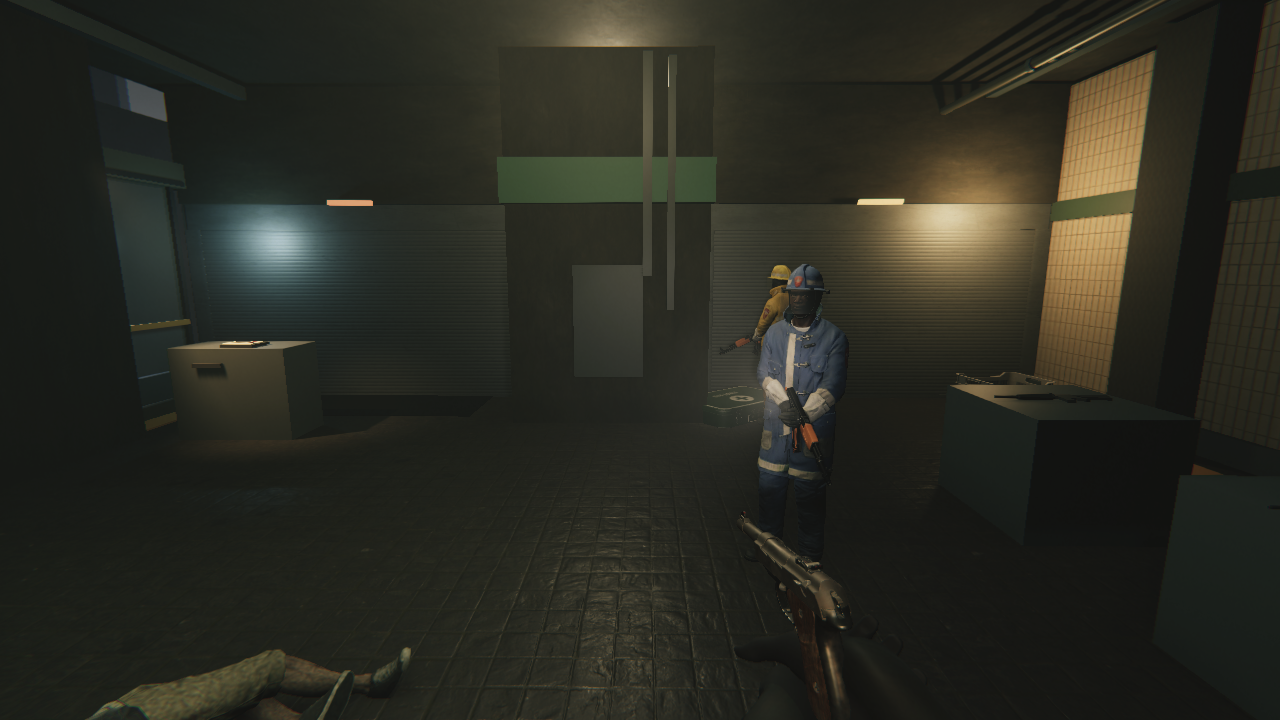
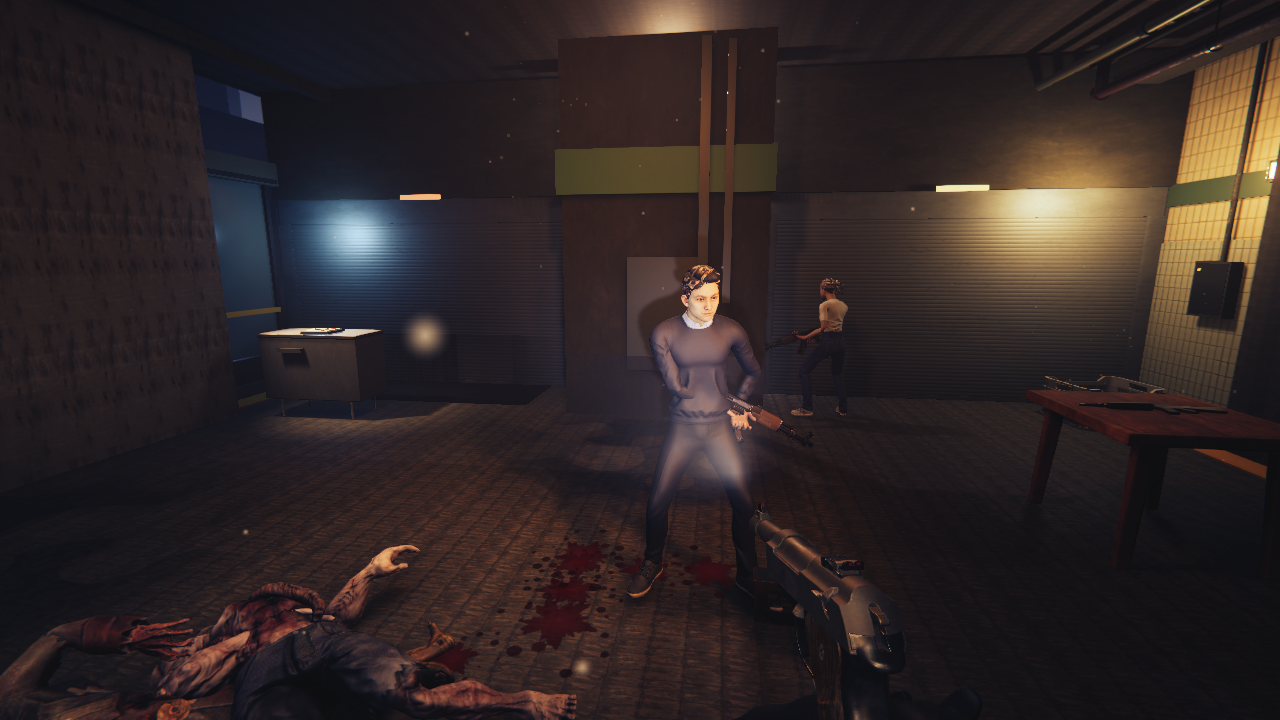
docs: refresh Residual Signal gameplay media

diff --git a/dead-frequency/Assets/Editor/StationPlayCheck.cs b/dead-frequency/Assets/Editor/StationPlayCheck.cs
@@ -44,6 +44,7 @@ namespace ResidualSignal
         static int preparationThreats;
         static Vector3 approachStart;
         static string demoFrameFolder;
+        static bool freightDemo;
         static int demoFrame;
         static float nextDemoFrame;
         static bool demoBossWalked;
@@ -115,6 +116,8 @@ namespace ResidualSignal
                 Application.runInBackground = true;
                 startedAt = EditorApplication.timeSinceStartup;
                 demoFrameFolder = SessionState.GetString(RunningKey + ".demo", "");
+                freightDemo = !string.IsNullOrEmpty(demoFrameFolder) &&
+                    Array.IndexOf(Environment.GetCommandLineArgs(), "-freightDemo") >= 0;
                 // Scripted checks need a quiet station: no director until a mode turns it on.
                 var quiet = UnityEngine.Object.FindFirstObjectByType<StationTrial>();
                 if (quiet != null && Array.IndexOf(Environment.GetCommandLineArgs(), "-botCheck") < 0)
@@ -786,6 +789,11 @@ namespace ResidualSignal
                         step = 86;
                         break;
                     }
+                    if (freightDemo)
+                    {
+                        step = 3;
+                        break;
+                    }
                     // Stage a deterministic hit/reload target independently of the live director.
                     target = trial.SpawnInfected(0.0f, controller.transform.position.z + 7f, false);
                     stepTime = Time.time;
@@ -826,6 +834,11 @@ namespace ResidualSignal
                     step = 83;
                     break;
                 case 83:
+                    if (liveDefenseMode && !trial.PreparingDefense && !string.IsNullOrEmpty(demoFrameFolder))
+                    {
+                        AimAtPoint(controller.transform.position + new Vector3(0f, 1.25f, 8f));
+                        RecordDemoFrame();
+                    }
                     int arrivals = trial.Threats.Count - preparationThreats;
                     bool specialistArrived = false;
                     if (liveDefenseMode)
@@ -836,7 +849,17 @@ namespace ResidualSignal
                         if (liveDefenseMode)
                             AimAtPoint(trial.Threats[trial.Threats.Count - 1].transform.position + Vector3.up * 1.25f);
                         Capture(Camera.main, Shot(".defense.png"));
-                        Finish(true, $"PLATFORM03 CAMPAIGN PACING CHECK PASS (quiet preparation, then {arrivals} covered reinforcements, specialist {specialistArrived})");
+                        string result = $"PLATFORM03 CAMPAIGN PACING CHECK PASS (quiet preparation, then {arrivals} covered reinforcements, specialist {specialistArrived})";
+                        if (!liveDefenseMode || string.IsNullOrEmpty(demoFrameFolder))
+                        {
+                            Finish(true, result);
+                            return;
+                        }
+                        Debug.Log(result);
+                        trial.Equip(4);
+                        trial.GiveAmmo();
+                        stepTime = Time.time;
+                        step = 134;
                         return;
                     }
                     if (Time.time > stepTime + 13f)
@@ -903,12 +926,15 @@ namespace ResidualSignal
                     step++;
                     break;
                 case 3 when Time.time >= stepTime + 1.4f:
-                    AimAt(target);
-                    Capture(Camera.main, Shot(".corpse.png"));
-                    if (trial.Rounds != startingRounds)
+                    if (!freightDemo)
                     {
-                        Finish(false, "Reload did not refill the magazine.");
-                        return;
+                        AimAt(target);
+                        Capture(Camera.main, Shot(".corpse.png"));
+                        if (trial.Rounds != startingRounds)
+                        {
+                            Finish(false, "Reload did not refill the magazine.");
+                            return;
+                        }
                     }
                     controller.Move(Vector3.right * 2.8f);
                     controller.Move(Vector3.forward * Mathf.Max(0f, 27f - controller.transform.position.z));
@@ -1246,6 +1272,7 @@ namespace ResidualSignal
                     float lane = -2.45f + Mathf.Sin((Time.time - stepTime) * 1.45f) * 0.95f;
                     MoveToward(controller, new Vector3(lane, 0, 57.25f));
                     AimAtPoint(target.transform.position + Vector3.up * 1.6f);
+                    RecordDemoFrame();
                     if (trial.TryFire())
                         yardShots++;
                     else if (trial.Rounds == 0)
@@ -1350,6 +1377,11 @@ namespace ResidualSignal
                 case 132:
                     ClearAnnexTestThreats(trial, controller);
                     MoveToward(controller, new Vector3(-1.6f, 0f, 103.15f));
+                    if (freightDemo)
+                    {
+                        AimAtPoint(trial.Witness.transform.position + Vector3.up * 1.35f);
+                        RecordDemoFrame();
+                    }
                     if (controller.transform.position.x >= -1.7f)
                         step = 133;
                     break;
@@ -1357,11 +1389,50 @@ namespace ResidualSignal
                     ClearAnnexTestThreats(trial, controller);
                     float witnessZ = trial.Witness.transform.position.z;
                     MoveToward(controller, new Vector3(-1.6f, 0f, Mathf.Min(121.1f, witnessZ + 3.8f)));
+                    if (freightDemo)
+                    {
+                        AimAtPoint(trial.Witness.transform.position + Vector3.up * 1.35f);
+                        RecordDemoFrame();
+                    }
                     if (!trial.Complete)
                         break;
                     AimAtPoint(new Vector3(-1.6f, 2.2f, 122.6f));
                     Capture(Camera.main, Shot(".freight-exit.png"));
                     Finish(true, "PLATFORM03 MISSION PLAY CHECK PASS (annex, freight power, exit release and escort escape)");
+                    break;
+                case 134:
+                    if (Time.time >= stepTime + 5f)
+                    {
+                        Finish(true, "PLATFORM03 DEFENSE GAMEPLAY CAPTURE READY");
+                        return;
+                    }
+                    StationInfected nearest = null;
+                    float nearestDistance = float.PositiveInfinity;
+                    foreach (var infected in trial.Threats)
+                    {
+                        if (infected == null || infected.Dead)
+                            continue;
+                        float distance = (infected.transform.position - controller.transform.position).sqrMagnitude;
+                        if (distance >= nearestDistance)
+                            continue;
+                        if (Physics.Linecast(Camera.main.transform.position, infected.transform.position + Vector3.up * 1.25f,
+                                out var obstruction, Physics.DefaultRaycastLayers, QueryTriggerInteraction.Ignore) &&
+                            obstruction.collider.GetComponentInParent<StationInfected>() != infected)
+                            continue;
+                        nearest = infected;
+                        nearestDistance = distance;
+                    }
+                    if (nearest != null)
+                    {
+                        AimAt(nearest);
+                        if (nearestDistance < 9f)
+                            trial.TryShove();
+                        if (!trial.TryFire() && trial.Rounds == 0)
+                            trial.TryReload();
+                    }
+                    if (trial.Health < 75 && !trial.Downed)
+                        trial.Heal(60);
+                    RecordDemoFrame();
                     break;
             }
         }

diff --git a/dead-frequency/README.md b/dead-frequency/README.md
@@ -2,7 +2,7 @@
 
 폐역에 남은 구조 요청에 응답하는 1인칭 협동 FPS. **1차 개발판**에는 해림역 첫 임무 〈열한 번째 이름〉이 들어 있습니다. 혼자 출격하면 AI 동료 셋과 플레이할 수 있고, 온라인은 최대 4인 코드 참가 방식입니다.
 
-![해림역 광장 진입과 AI 분대 교전](docs/media/approach.gif)
+![밤의 해림역 광장에서 대합실로 진입](docs/media/approach.gif)
 
 ## 플레이
 
@@ -29,7 +29,7 @@ open "Builds/Residual Signal Playtest.app"
 | 조작 | 동작 |
 |---|---|
 | WASD / 마우스 | 이동 / 시점 |
-| 왼쪽 클릭 / 오른쪽 클릭(길게) | 사격 / 정조준 |
+| 왼쪽 클릭 / 오른쪽 클릭 또는 왼쪽 Alt(길게) | 사격 / 정조준 |
 | V 또는 휠 클릭 | 개머리판 밀치기 |
 | E / E 길게 | 상호작용 / 쓰러진 동료 일으키기 |
 | Q | 조준한 감염체에 분대 집중 사격 지시 (혼자 출격) |
@@ -41,14 +41,29 @@ open "Builds/Residual Signal Playtest.app"
 
 광장 대피 통제소를 지나 비상전화에 응답합니다. 명부를 확인한 뒤 침수 통로 또는 직원 통로를 열고, 승강장 전력을 복구해 셔터가 열릴 때까지 버팁니다. 서이경을 구조한 뒤 정비동 유압 펌프를 가동하고, 적재장 거대체를 제압한 뒤 화물 연결로에서 배전함과 서비스문 잠금을 조작하고 서이경과 탈출합니다. 길은 바닥 유도선과 조명, 공간 배치로 안내합니다.
 
-- **분대** — AI 동료 셋, 보급 회수, 엄폐 뒤 접근, 집중 사격, 치료와 구조.
-- **전투** — 권총, 산탄총, 자동소총, 저격소총, 반자동 카빈. 부위별 피격 반응, 밀치기와 사망 물리 모션.
-- **감염체** — 일반 감염체 외형 6종과 특수 감염체 5종. 덮치개, 끌개, 부풀이, 울음꾼, 적재장 거대체가 다른 방식으로 공격합니다. 울음꾼의 호출은 공격으로 끊을 수 있고, 거대체는 돌진 전에 예고 동작을 합니다.
-- **습격 연출** — 증원은 플레이어에게 가려져 있고 분대까지 이동할 수 있는 지점에서 나옵니다. 특수기는 공통 대기 시간을 적용합니다.
+- **분대** — Mixamo 캐릭터를 적용한 AI 동료 셋이 보급품을 챙기고, 엄폐하며 접근하고, 지정한 표적에 집중 사격합니다. 쓰러진 아군을 일으키고 붙잡힌 아군을 우선 구조합니다.
+- **전투** — 권총, 산탄총, 자동소총, 저격소총, 반자동 카빈. 정조준, 시점 반동, 총구 섬광, 탄흔, 부위별 피격 반응과 사망 물리 모션을 적용했습니다.
+- **감염체** — 일반 감염체와 덮치개·끌개·부풀이·울음꾼, 적재장 거대체의 모델과 모션을 교체했습니다. 울음꾼의 호출은 공격으로 끊을 수 있습니다. 거대체는 콘크리트를 던지고, 돌진하거나 가까운 대상을 휩씁니다.
+- **습격 연출** — 승강장은 준비 시간이 끝나면 시야 밖 통로에서 감염체 무리와 특수 감염체가 진입합니다. 이동 구간에서는 분대가 받는 압박에 따라 디렉터가 추가 무리와 휴식 간격을 조절합니다.
+- **해림역** — 광장의 야간 조명, 대합실과 승강장의 배관·간판·등기구, 역 타일과 젖은 바닥, 정비동의 가구와 소품을 갱신했습니다.
 
-![적재장 거대체 접근과 피격](docs/media/loading-bay-boss.gif)
+## 플레이 장면
 
-위 GIF는 Unity Play Mode의 자동 플레이 장면을 촬영했습니다. [정비동 화면](docs/loading-bay-workshop.png) · [동료 작업복](docs/loading-bay-team.png)
+### 승강장 방어
+
+![시야 밖 통로에서 진입하는 감염체 무리와 승강장 교전](docs/media/platform-defense.gif)
+
+### 적재장 거대체
+
+![적재장 거대체와 분대의 교전](docs/media/loading-bay-boss.gif)
+
+### 화물 연결로 탈출
+
+![화물 연결로 서비스문을 열고 서이경을 호송](docs/media/freight-escape.gif)
+
+GIF는 Unity Play Mode에서 자동 조작으로 촬영했습니다.
+
+스크린샷은 [AI 동료](docs/loading-bay-team.png), [해림역 내부](production/qa/evidence/architecture-detail-2026-11-24.png), [승강장](docs/media/platform-defense.png), [정비동](docs/loading-bay-workshop.png), [거대체](docs/loading-bay-boss.png), [화물 연결로](docs/media/freight-escape.png)에서 볼 수 있습니다.
 
 ## 검증과 남은 작업
 

diff --git a/dead-frequency/production/session-state/active.md b/dead-frequency/production/session-state/active.md
@@ -26,3 +26,10 @@
 - 적재장 이후 화물 연결로 쪽으로 54m 전진하며, 배전함으로 차단문을 열고 반대편 신호함에서 서비스문 잠금을 해제한 뒤 서이경과 탈출한다. `ResidualSignal.StationSceneBuilder.InstallFreightPassage`로 씬과 NavMesh를 갱신한다.
 - 거대체 보호는 첫 공격 전에 줄지 않는다. 이후 적재장 안에 표적이 있고 최근 피해를 받은 구간에서만 30.5초 보호가 소모된다.
 - 아군 충돌쌍만 제외했다. `-squadCollisionCheck`에서 아군 둘을 지나 3.20m 이동하고 감염체와의 충돌은 유지됐다. 첫 방어부터 특수 감염체를 투입하고 대기 중인 특수 감염체의 마지막 증원 몫을 유지한다. `-liveDefenseCheck`에서 은폐 증원 14체와 특수 감염체 등장 확인.
+
+## 2026-11-24 플레이 미디어
+
+- 지금 하던 일. 최신 Mixamo 모델과 해림역 씬으로 README의 진입·거대체 GIF와 대표 스크린샷을 교체하고, 승강장 방어와 화물 연결로 호송을 별도 GIF로 기록했다.
+- 다시 촬영할 때는 `ResidualSignal.StationPlayCheck.Run`에 `-solo -stationCapture <비어 있는 PNG 경로> -demoFrames <프레임 폴더>`를 넘긴다. 진입은 `-botCheck`, 승강장은 `-liveDefenseCheck`, 적재장은 `-yardBossCheck`, 호송은 `-freightDemo -triageLeft -drainRoute`를 사용한다.
+- 검증. 분대, 승강장 증원, 적재장 보스 검사와 침수 통로 경유 호송 촬영 통과. 일반 임무 자동 검사는 첫 사격의 피격 반응 확인에서 멈췄다. 호송 촬영 모드는 해당 사격 검사를 건너뛰고 탈출 완료까지 확인한다.
+- 다음 할 일. 확장 임무의 4인 Relay 완주, 실플레이 난이도와 프레임 타임을 확인한다.

diff --git a/README.md b/README.md
@@ -6,7 +6,7 @@
 
 | 화면 | 게임 | 장르 | 상태 |
 |---|---|---|---|
-| <img src="dead-frequency/docs/media/approach.gif" width="260" alt="해림역 광장 진입과 분대 교전"> | **[잔류신호](dead-frequency/)** | 폐역을 수색하고 구조 대상과 함께 탈출하는 1인칭 협동 FPS (Unity HDRP) | 1차 개발판 · macOS 로컬 빌드 가능 |
+| <img src="dead-frequency/docs/media/approach.gif" width="260" alt="밤의 해림역 광장에서 대합실로 진입"> | **[잔류신호](dead-frequency/)** | AI 분대와 폐역 진입, 승강장 방어, 적재장 보스전과 화물 연결로 호송 (1인칭 협동 FPS, Unity HDRP) | 첫 임무 플레이 가능 · macOS 로컬 빌드 |
 | <img src="last-train/docs/media/gameplay.gif" width="260" alt="시장 관리동 출입과 수색"> | **[막차까지](last-train/)** | 봉쇄 도시 수색과 다층 건물 탐색, 세 가지 탈출로 (3D 탑다운, Unity) | macOS 로컬 빌드 플레이 가능 |
 | <img src="reel-dungeon/docs/media/combat.gif" width="260"> | **[슬롯 던전](reel-dungeon/)** | 슬롯머신 턴제 던전 로그라이크 — 동료 한 명이 슬롯 한 줄, 11명 중 골라 3장 돌파 (2D 픽셀, Unity) | 플레이 가능 (이어하기·어려움 0~5·도감), 사람 플레이테스트 전 |
 | <img src="haunted-movers/docs/media/run.gif" width="260"> | **[유령집 이삿짐센터](haunted-movers/)** | 2~4인 온라인 협동 호러 — 귀신 들린 저택에서 고물 건지기 (1인칭 3D) | 플레이 가능, 플레이테스트 중 |

diff --git a/ROADMAP.md b/ROADMAP.md
@@ -94,5 +94,6 @@
 - [x] 덮치개·끌개·부풀이·울음꾼 신규 리깅 모델 적용과 개별 자세 조정.
 - [x] 적재장 이후 화물 연결로, 배전함·잠금 해제·호송 탈출 추가. 보스 보호는 첫 공격 이후 실제 피격이 이어지는 교전 시간 기준.
 - [x] 아군끼리 물리적으로 밀리지 않게 하고, 승강장 첫 무리부터 특수 감염체가 들어오도록 수정.
+- [x] Mixamo 분대·감염체·거대체와 해림역 아트 개편을 반영해 프로젝트 및 루트 README의 플레이 미디어 갱신.
 - [ ] 확장된 첫 임무의 4인 Relay 완주, 실플레이 난이도와 프레임 타임 확인.
 - [ ] 후속 미션과 약탈자 교전 제작.
